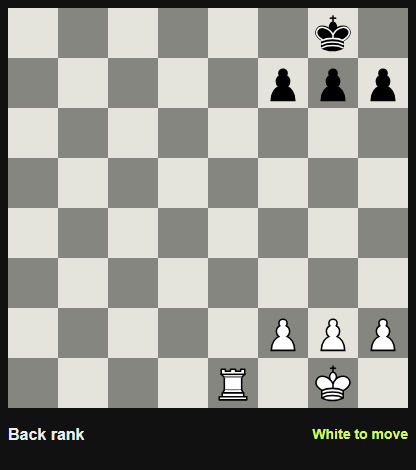
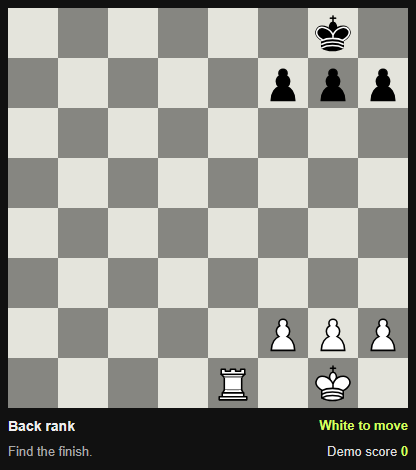
Show solve points and sample rankings in the puzzle GIF

Changed region(s): [[0.75, 0.8936, 1.0, 0.983], [0.0, 0.8936, 0.2188, 0.983]]

diff --git a/docs/index.html b/docs/index.html
@@ -101,7 +101,7 @@ dialog{background:#191919;border-radius:2px;border-color:#666;padding:28px;max-h
 .nav-mobile-label{display:none}
 @media(max-width:640px){.nav-desktop-label{display:none}.nav-mobile-label{display:inline}}
  .feed-swipe-hint{display:none}@media(max-width:760px){.feed-swipe-hint{display:block;margin:0 0 14px;color:var(--muted);font-size:13px}.club-grid{display:flex;gap:14px;overflow-x:auto;scroll-snap-type:x mandatory;overscroll-behavior-x:contain;padding-bottom:14px;scrollbar-width:thin;scrollbar-color:#d5ff5f #303030}.club-grid>.club-card{flex:0 0 88%;min-width:0;scroll-snap-align:start}.club-grid>.feed-empty{flex:1;min-width:100%}.club-grid:focus-visible{outline:2px solid #d5ff5f;outline-offset:4px}} .android-app-banner{background:#1b1b1b;border:1px solid #d5ff5f;margin:20px auto;padding:22px;max-width:1124px}.android-app-banner strong{font-size:24px}.android-app-banner p{margin:8px 0 14px}.android-app-banner[hidden],.android-app-banner button[hidden]{display:none}@media(max-width:760px){.android-app-banner{margin:20px}.android-app-banner .actions{gap:10px}.android-app-banner .actions button{font-size:13px;padding:11px 12px}} .event-photo-card{min-width:0}.event-photo-card h3{margin:0 0 16px;font-size:21px}.event-photo-card:not(:first-child){display:none}.memories-swipe-hint{display:none}.event-photo-track:focus-visible{outline:2px solid #d5ff5f;outline-offset:4px}@media(max-width:760px){.memories-swipe-hint{display:block;font-size:13px;margin:0 0 12px}.event-photo-track{display:flex;gap:16px;overflow-x:auto;scroll-snap-type:x mandatory;overscroll-behavior-x:contain;scrollbar-width:thin;scrollbar-color:#d5ff5f #303030;padding-bottom:12px}.event-photo-card,.event-photo-card:not(:first-child){display:block;flex:0 0 100%;scroll-snap-align:start}.event-photo-card .gallery-grid{grid-template-columns:repeat(2,minmax(0,1fr))}.event-photo-card figure:nth-child(n+5){display:none}.event-photo-card figcaption{display:-webkit-box;-webkit-line-clamp:2;-webkit-box-orient:vertical;overflow:hidden}.event-photo-card .gallery-grid img{height:140px}} .puzzle-picker{max-width:1040px;margin:auto}.puzzle-picker>p{max-width:620px}.puzzle-nickname{max-width:440px;margin:28px 0}.puzzle-nickname input{margin-bottom:8px}.puzzle-set-grid{display:grid;grid-template-columns:repeat(2,minmax(0,1fr));gap:24px;margin:32px 0}.puzzle-set-card{display:flex;flex-direction:column;align-items:flex-start;background:#1b1b1b;border:1px solid #444;padding:32px;min-width:0}.puzzle-set-card:hover,.puzzle-set-card:focus-within{border-color:#d5ff5f}.puzzle-set-card h2{font:800 36px/1.1 Arial,sans-serif;margin:14px 0}.puzzle-set-card p{margin:0 0 28px;max-width:360px;flex:1}.puzzle-set-icon{font-size:48px;line-height:1;color:#d5ff5f;margin-bottom:24px}.puzzle-set-card .primary{min-height:48px;min-width:140px;display:flex;justify-content:space-between;gap:24px}@media(max-width:760px){.puzzle-set-grid{grid-template-columns:1fr;gap:18px;margin:24px 0}.puzzle-set-card{padding:26px}.puzzle-set-card .primary{width:100%}.puzzle-picker h1{font-size:40px}.puzzle-set-icon{font-size:40px;margin-bottom:18px}} @media(max-width:760px){.feed-filters{min-width:0;max-width:100%;overflow:visible}.feed-filters button{min-width:0;max-width:100%;white-space:normal;overflow-wrap:anywhere;line-height:1.25;padding:10px 6px;min-height:48px}.club-card .card-copy{min-width:0}.club-card h3,.club-card .title-button,.club-card .card-meta,.club-card .card-excerpt{max-width:100%;overflow-wrap:anywhere}.club-card .card-top{gap:8px}.club-card .tag{min-width:0;white-space:normal}.club-card .date-tile{flex-shrink:0}.club-card .actions>*{max-width:100%;white-space:normal;overflow-wrap:anywhere}} .puzzle-set-card .secondary{width:100%;margin-top:12px;min-height:48px}.puzzle-set-card .text-button{font-size:14px;text-align:left}.puzzle-set-card .primary{width:100%} .founder-about .about-hero{align-items:center;grid-template-columns:1.1fr minmax(0,440px);gap:64px}.founder-thumbnail{display:block;border:1px solid #555;text-decoration:none;overflow:hidden;background:#222}.founder-thumbnail img{display:block;width:100%;height:auto}.founder-watch{display:flex;justify-content:space-between;align-items:center;gap:14px;background:#d5ff5f;color:#111;padding:18px 22px;font-weight:800}.founder-thumbnail:focus-visible{outline:3px solid #d5ff5f;outline-offset:5px}.founder-about .about-hero>div>.eyebrow:not(:first-child){margin-top:32px}.founder-about .about-hero h2{font-size:28px;margin-top:12px}.founder-about>.story-card{max-width:760px}@media(max-width:760px){.founder-about .about-hero{grid-template-columns:1fr;gap:28px}.founder-thumbnail{width:100%;max-width:440px;margin:auto}.founder-watch{padding:16px;font-size:15px}} .puzzle-intro{display:grid;grid-template-columns:minmax(0,1fr) 330px;gap:60px;align-items:center}.puzzle-intro-copy p{max-width:540px}.puzzle-demo{margin:0;width:100%;border:1px solid #444;padding:12px;background:#111}.puzzle-demo img{display:block;width:100%;height:auto}.puzzle-demo figcaption{display:flex;flex-wrap:wrap;gap:8px;align-items:center;justify-content:space-between;font-size:12px;color:var(--muted);padding-top:8px}.puzzle-demo .text-button{font-size:12px;padding:4px 0}.puzzle-intro .puzzle-intro-copy h1{font-size:clamp(40px,4.8vw,64px)}@media(max-width:900px){.puzzle-intro{display:block}.puzzle-demo{display:none}}
-@media(min-width:901px){.puzzle-picker{max-width:1080px}.puzzle-intro{grid-template-columns:minmax(0,1fr) clamp(340px,32vw,400px);gap:48px;align-items:center;padding:4px 0 30px;border-bottom:1px solid var(--line)}.puzzle-intro .puzzle-intro-copy h1{font-size:clamp(42px,4vw,56px);line-height:1.06;margin:14px 0 18px;letter-spacing:-1.8px}.puzzle-intro-copy>p{font-size:16px;line-height:1.6;margin:0;max-width:510px}.puzzle-intro .puzzle-nickname{max-width:460px;margin:26px 0 0}.puzzle-nickname label{font-size:14px;font-weight:650}.puzzle-nickname input{margin:8px 0 7px;padding:12px 14px}.puzzle-nickname small{display:block;font-size:12px;line-height:1.5;max-width:440px}.puzzle-demo{padding:0;border:0;background:transparent;align-self:center}.puzzle-demo img{border:1px solid #444;aspect-ratio:416/445;object-fit:cover;object-position:top}.puzzle-demo figcaption{padding-top:10px;gap:6px}.puzzle-demo figcaption>span{font-size:11px}.puzzle-demo .text-button{font-size:11px}.puzzle-set-grid{margin:26px 0 0;gap:24px}.puzzle-set-card{padding:26px}.puzzle-set-icon{font-size:38px;margin-bottom:14px}.puzzle-set-card h2{font-size:30px;line-height:1.15;margin:10px 0 12px}.puzzle-set-card p{font-size:15px;line-height:1.5;min-height:45px;margin-bottom:22px}.puzzle-set-card .primary{padding:12px 18px;margin-top:auto}}
+@media(min-width:901px){.puzzle-picker{max-width:1080px}.puzzle-intro{grid-template-columns:minmax(0,1fr) clamp(340px,32vw,400px);gap:48px;align-items:center;padding:4px 0 30px;border-bottom:1px solid var(--line)}.puzzle-intro .puzzle-intro-copy h1{font-size:clamp(42px,4vw,56px);line-height:1.06;margin:14px 0 18px;letter-spacing:-1.8px}.puzzle-intro-copy>p{font-size:16px;line-height:1.6;margin:0;max-width:510px}.puzzle-intro .puzzle-nickname{max-width:460px;margin:26px 0 0}.puzzle-nickname label{font-size:14px;font-weight:650}.puzzle-nickname input{margin:8px 0 7px;padding:12px 14px}.puzzle-nickname small{display:block;font-size:12px;line-height:1.5;max-width:440px}.puzzle-demo{padding:0;border:0;background:transparent;align-self:center}.puzzle-demo img{border:1px solid #444;aspect-ratio:416/470;object-fit:cover;object-position:top}.puzzle-demo figcaption{padding-top:10px;gap:6px}.puzzle-demo figcaption>span{font-size:11px}.puzzle-demo .text-button{font-size:11px}.puzzle-set-grid{margin:26px 0 0;gap:24px}.puzzle-set-card{padding:26px}.puzzle-set-icon{font-size:38px;margin-bottom:14px}.puzzle-set-card h2{font-size:30px;line-height:1.15;margin:10px 0 12px}.puzzle-set-card p{font-size:15px;line-height:1.5;min-height:45px;margin-bottom:22px}.puzzle-set-card .primary{padding:12px 18px;margin-top:auto}}
 </style></head><body><a class="skip-link" href="#app">Skip to content</a><header><div class="brand"><img src="./chessynight-logo.png" alt="CHESSYNIGHT logo"><div>CHESSYNIGHT<small>CHESS. PEOPLE. GOOD NIGHTS.</small></div></div><nav aria-label="Main navigation"><button id="updatesNav" class="active" aria-current="page">Events</button><button id="tournamentsNav"><span class="nav-desktop-label">Tournaments</span><span class="nav-mobile-label">Tourney</span></button><button id="lessonsNav">Lessons</button><button id="playNav">Play</button><button id="rankNav">Rankings</button><button id="aboutNav">About</button><button id="contactNav">Contact</button><a id="adminLink" class="hidden" href="https://chessy-night.kishelraj.chatgpt.site/admin">Admin</a></nav></header><main id="app" tabindex="-1"></main><footer>CHESSYNIGHT · Meet across the board. PJ & KL.<span><a href="https://chessy-night.kishelraj.chatgpt.site/admin">Admin</a> · </span><small class="piece-credit">Pieces by <a href="https://commons.wikimedia.org/wiki/Category:SVG_chess_pieces" target="_blank" rel="noopener noreferrer">Cburnett</a> · <a href="https://creativecommons.org/licenses/by-sa/3.0/" target="_blank" rel="noopener noreferrer">CC BY-SA 3.0</a></small></footer><script type="module">
 import {Chess} from './chess.js';
 function assetURL(value){return value?.startsWith('/')?"https://chessy-night.kishelraj.chatgpt.site"+value:value}
@@ -113,7 +113,7 @@ let content=null,challenge='classic',playerColor='w',busy=false,challengeTitle='
 async function refresh(){content=await api('content');challenge=content.set.id;document.querySelector('#adminLink').classList.toggle('hidden',!content.admin)}
 async function home(){activeNav('playNav');clearInterval(eventTimer);clearInterval(timer);app.className='';app.innerHTML='<p role="status">Loading challenge…</p>';try{await refresh();drawHome()}catch(e){app.innerHTML='<p class="error">'+esc(e.message)+'</p><button class="primary" id="reload">Retry</button>';document.querySelector('#reload').onclick=home}}
 function options(chosen){return content.sets.map(s=>'<option value="'+esc(s.id)+'" '+(s.id===chosen?'selected':'')+'>'+esc(s.title)+(s.date?' · '+esc(s.date):'')+'</option>').join('')}
-function drawHome(){practiceMode=false;selected=null;lastMove=[];const priority=s=>s.id==='classic'?0:s.id==='woodpecker-puzzles'?1:2;const sets=[...content.sets].sort((a,b)=>priority(a)-priority(b));app.innerHTML='<section class="puzzle-picker"><form id="start"><div class="puzzle-intro"><div class="puzzle-intro-copy"><div class="eyebrow">The club challenge</div><h1>Make your<br>next move count.</h1><p>Choose your challenge. Find the best moves and play for a place on the CHESSYNIGHT board.</p><div class="puzzle-nickname"><label for="nickname">Choose your nickname</label><input id="nickname" maxlength="24" minlength="2" required placeholder="What should we call you?" autocomplete="nickname" value="'+esc(nick)+'"><small>For timed challenges, your nickname appears on the leaderboard. Practice can start without one.</small></div></div><figure class="puzzle-demo"><img id="puzzleDemoImage" src="https://chessy-night.kishelraj.chatgpt.site/posters/puzzle-patterns.gif?v=2" alt="Five chess puzzles showing back-rank mate, smothered mate, queen net, a capture and mate, and a black-to-move solution"><figcaption><span>Spot the pattern. Find the finish.</span><button type="button" class="text-button" id="puzzleDemoToggle" aria-pressed="false">Pause animation</button></figcaption></figure></div><div class="puzzle-set-grid">'+sets.map(s=>{const classic=s.id==='classic',advanced=s.id==='woodpecker-puzzles';const title=s.title;return '<article class="puzzle-set-card"><span class="puzzle-set-icon" aria-hidden="true">'+(advanced?'♞':'♟')+'</span><div class="eyebrow">'+(classic?'Start here':advanced?'Step it up':'Club collection')+'</div><h2>'+esc(title)+'</h2><p>'+(classic?'Short tactical puzzles to sharpen your next move.':advanced?'A tougher collection for deeper calculation and focused practice.':'Explore this puzzle collection from CHESSYNIGHT.')+'</p><button class="primary" type="submit" name="puzzleSet" value="'+esc(s.id)+'" data-puzzle-set="'+esc(s.id)+'" aria-label="Play '+esc(title)+'">Play <span aria-hidden="true">&rarr;</span></button>'+practiceButtons(s)+'</article>'}).join('')+'</div><p id="error" class="error" role="alert"></p></form></section>';bindPractice();const demo=document.querySelector('#puzzleDemoImage'),toggle=document.querySelector('#puzzleDemoToggle');let paused=matchMedia('(prefers-reduced-motion: reduce)').matches;function updateDemo(){demo.src='https://chessy-night.kishelraj.chatgpt.site/posters/puzzle-patterns.'+(paused?'png':'gif')+'?v=2';toggle.textContent=paused?'Play animation':'Pause animation';toggle.setAttribute('aria-pressed',String(paused))}updateDemo();toggle.onclick=()=>{paused=!paused;updateDemo()};document.querySelector('#start').onsubmit=async e=>{e.preventDefault();nick=document.querySelector('#nickname').value.trim();challenge=e.submitter.value;const buttons=[...document.querySelectorAll('.puzzle-set-card button')];buttons.forEach(b=>b.disabled=true);try{const d=await api('start',{nickname:nick,challenge});id=d.id;puzzles=d.puzzles;challengeTitle=d.title;index=0;answers=[];solved=[];started=Date.now();finished=false;load();timer=setInterval(()=>{let el=document.querySelector('#clock');if(el)el.textContent=time(Date.now()-started)},1000)}catch(e){document.querySelector('#error').textContent=e.message;buttons.forEach(b=>b.disabled=false)}}}
+function drawHome(){practiceMode=false;selected=null;lastMove=[];const priority=s=>s.id==='classic'?0:s.id==='woodpecker-puzzles'?1:2;const sets=[...content.sets].sort((a,b)=>priority(a)-priority(b));app.innerHTML='<section class="puzzle-picker"><form id="start"><div class="puzzle-intro"><div class="puzzle-intro-copy"><div class="eyebrow">The club challenge</div><h1>Make your<br>next move count.</h1><p>Choose your challenge. Find the best moves and play for a place on the CHESSYNIGHT board.</p><div class="puzzle-nickname"><label for="nickname">Choose your nickname</label><input id="nickname" maxlength="24" minlength="2" required placeholder="What should we call you?" autocomplete="nickname" value="'+esc(nick)+'"><small>For timed challenges, your nickname appears on the leaderboard. Practice can start without one.</small></div></div><figure class="puzzle-demo"><img id="puzzleDemoImage" src="https://chessy-night.kishelraj.chatgpt.site/posters/puzzle-patterns.gif?v=3" alt="Five solved chess puzzles awarding 100 demo points each, followed by a sample ranking board"><figcaption><span>Solve. Score. Climb the board.</span><button type="button" class="text-button" id="puzzleDemoToggle" aria-pressed="false">Pause animation</button></figcaption></figure></div><div class="puzzle-set-grid">'+sets.map(s=>{const classic=s.id==='classic',advanced=s.id==='woodpecker-puzzles';const title=s.title;return '<article class="puzzle-set-card"><span class="puzzle-set-icon" aria-hidden="true">'+(advanced?'♞':'♟')+'</span><div class="eyebrow">'+(classic?'Start here':advanced?'Step it up':'Club collection')+'</div><h2>'+esc(title)+'</h2><p>'+(classic?'Short tactical puzzles to sharpen your next move.':advanced?'A tougher collection for deeper calculation and focused practice.':'Explore this puzzle collection from CHESSYNIGHT.')+'</p><button class="primary" type="submit" name="puzzleSet" value="'+esc(s.id)+'" data-puzzle-set="'+esc(s.id)+'" aria-label="Play '+esc(title)+'">Play <span aria-hidden="true">&rarr;</span></button>'+practiceButtons(s)+'</article>'}).join('')+'</div><p id="error" class="error" role="alert"></p></form></section>';bindPractice();const demo=document.querySelector('#puzzleDemoImage'),toggle=document.querySelector('#puzzleDemoToggle');let paused=matchMedia('(prefers-reduced-motion: reduce)').matches;function updateDemo(){demo.src='https://chessy-night.kishelraj.chatgpt.site/posters/puzzle-patterns.'+(paused?'png':'gif')+'?v=3';toggle.textContent=paused?'Play animation':'Pause animation';toggle.setAttribute('aria-pressed',String(paused))}updateDemo();toggle.onclick=()=>{paused=!paused;updateDemo()};document.querySelector('#start').onsubmit=async e=>{e.preventDefault();nick=document.querySelector('#nickname').value.trim();challenge=e.submitter.value;const buttons=[...document.querySelectorAll('.puzzle-set-card button')];buttons.forEach(b=>b.disabled=true);try{const d=await api('start',{nickname:nick,challenge});id=d.id;puzzles=d.puzzles;challengeTitle=d.title;index=0;answers=[];solved=[];started=Date.now();finished=false;load();timer=setInterval(()=>{let el=document.querySelector('#clock');if(el)el.textContent=time(Date.now()-started)},1000)}catch(e){document.querySelector('#error').textContent=e.message;buttons.forEach(b=>b.disabled=false)}}}
 function time(ms){let s=Math.floor(ms/1000);return Math.floor(s/60)+':'+String(s%60).padStart(2,'0')}
 function load(){game=new Chess(puzzles[index].fen);playerColor=game.turn();selected=null;lastMove=[];locked=false;render()}
 function render(){if(practiceMode){renderPractice();return}app.className='game';app.innerHTML='<div class="layout"><div id="board">'+board(game,true)+'</div><div class="panel"><div class="eyebrow">'+esc(challengeTitle)+' · '+esc(nick)+' · '+'Puzzle '+(index+1)+'</div><h1>'+(playerColor==='w'?'White':'Black')+' to move.</h1><p>'+esc(puzzles[index].title||'Find the best move')+'</p><div class="progress"><div style="width:'+index/puzzles.length*100+'%"></div></div><div class="stats"><div><small>Score</small><b id="score">'+solved.filter(Boolean).length*100+'</b></div><div><small>Time</small><b id="clock">'+time(Date.now()-started)+'</b></div></div><p class="status" id="status" role="status">Select a piece, then its destination.</p><div class="actions"><button class="secondary" id="skip">Skip puzzle</button><button class="primary hidden" id="next">'+(index===puzzles.length-1?'See results':'Next puzzle')+'</button></div><p><small>The opponent replies automatically. Faster time breaks a tie.</small></p></div></div>';bind();document.querySelector('#skip').onclick=()=>submitMove(null,true);document.querySelector('#next').onclick=next}

diff --git a/worker/page.html b/worker/page.html
@@ -84,7 +84,7 @@ dialog{background:#191919;border-radius:2px;border-color:#666;padding:28px;max-h
 .nav-mobile-label{display:none}
 @media(max-width:640px){.nav-desktop-label{display:none}.nav-mobile-label{display:inline}}
  .feed-swipe-hint{display:none}@media(max-width:760px){.feed-swipe-hint{display:block;margin:0 0 14px;color:var(--muted);font-size:13px}.club-grid{display:flex;gap:14px;overflow-x:auto;scroll-snap-type:x mandatory;overscroll-behavior-x:contain;padding-bottom:14px;scrollbar-width:thin;scrollbar-color:#d5ff5f #303030}.club-grid>.club-card{flex:0 0 88%;min-width:0;scroll-snap-align:start}.club-grid>.feed-empty{flex:1;min-width:100%}.club-grid:focus-visible{outline:2px solid #d5ff5f;outline-offset:4px}} .android-app-banner{background:#1b1b1b;border:1px solid #d5ff5f;margin:20px auto;padding:22px;max-width:1124px}.android-app-banner strong{font-size:24px}.android-app-banner p{margin:8px 0 14px}.android-app-banner[hidden],.android-app-banner button[hidden]{display:none}@media(max-width:760px){.android-app-banner{margin:20px}.android-app-banner .actions{gap:10px}.android-app-banner .actions button{font-size:13px;padding:11px 12px}} .event-photo-card{min-width:0}.event-photo-card h3{margin:0 0 16px;font-size:21px}.event-photo-card:not(:first-child){display:none}.memories-swipe-hint{display:none}.event-photo-track:focus-visible{outline:2px solid #d5ff5f;outline-offset:4px}@media(max-width:760px){.memories-swipe-hint{display:block;font-size:13px;margin:0 0 12px}.event-photo-track{display:flex;gap:16px;overflow-x:auto;scroll-snap-type:x mandatory;overscroll-behavior-x:contain;scrollbar-width:thin;scrollbar-color:#d5ff5f #303030;padding-bottom:12px}.event-photo-card,.event-photo-card:not(:first-child){display:block;flex:0 0 100%;scroll-snap-align:start}.event-photo-card .gallery-grid{grid-template-columns:repeat(2,minmax(0,1fr))}.event-photo-card figure:nth-child(n+5){display:none}.event-photo-card figcaption{display:-webkit-box;-webkit-line-clamp:2;-webkit-box-orient:vertical;overflow:hidden}.event-photo-card .gallery-grid img{height:140px}} .puzzle-picker{max-width:1040px;margin:auto}.puzzle-picker>p{max-width:620px}.puzzle-nickname{max-width:440px;margin:28px 0}.puzzle-nickname input{margin-bottom:8px}.puzzle-set-grid{display:grid;grid-template-columns:repeat(2,minmax(0,1fr));gap:24px;margin:32px 0}.puzzle-set-card{display:flex;flex-direction:column;align-items:flex-start;background:#1b1b1b;border:1px solid #444;padding:32px;min-width:0}.puzzle-set-card:hover,.puzzle-set-card:focus-within{border-color:#d5ff5f}.puzzle-set-card h2{font:800 36px/1.1 Arial,sans-serif;margin:14px 0}.puzzle-set-card p{margin:0 0 28px;max-width:360px;flex:1}.puzzle-set-icon{font-size:48px;line-height:1;color:#d5ff5f;margin-bottom:24px}.puzzle-set-card .primary{min-height:48px;min-width:140px;display:flex;justify-content:space-between;gap:24px}@media(max-width:760px){.puzzle-set-grid{grid-template-columns:1fr;gap:18px;margin:24px 0}.puzzle-set-card{padding:26px}.puzzle-set-card .primary{width:100%}.puzzle-picker h1{font-size:40px}.puzzle-set-icon{font-size:40px;margin-bottom:18px}} @media(max-width:760px){.feed-filters{min-width:0;max-width:100%;overflow:visible}.feed-filters button{min-width:0;max-width:100%;white-space:normal;overflow-wrap:anywhere;line-height:1.25;padding:10px 6px;min-height:48px}.club-card .card-copy{min-width:0}.club-card h3,.club-card .title-button,.club-card .card-meta,.club-card .card-excerpt{max-width:100%;overflow-wrap:anywhere}.club-card .card-top{gap:8px}.club-card .tag{min-width:0;white-space:normal}.club-card .date-tile{flex-shrink:0}.club-card .actions>*{max-width:100%;white-space:normal;overflow-wrap:anywhere}} .puzzle-set-card .secondary{width:100%;margin-top:12px;min-height:48px}.puzzle-set-card .text-button{font-size:14px;text-align:left}.puzzle-set-card .primary{width:100%} .founder-about .about-hero{align-items:center;grid-template-columns:1.1fr minmax(0,440px);gap:64px}.founder-thumbnail{display:block;border:1px solid #555;text-decoration:none;overflow:hidden;background:#222}.founder-thumbnail img{display:block;width:100%;height:auto}.founder-watch{display:flex;justify-content:space-between;align-items:center;gap:14px;background:#d5ff5f;color:#111;padding:18px 22px;font-weight:800}.founder-thumbnail:focus-visible{outline:3px solid #d5ff5f;outline-offset:5px}.founder-about .about-hero>div>.eyebrow:not(:first-child){margin-top:32px}.founder-about .about-hero h2{font-size:28px;margin-top:12px}.founder-about>.story-card{max-width:760px}@media(max-width:760px){.founder-about .about-hero{grid-template-columns:1fr;gap:28px}.founder-thumbnail{width:100%;max-width:440px;margin:auto}.founder-watch{padding:16px;font-size:15px}} .puzzle-intro{display:grid;grid-template-columns:minmax(0,1fr) 330px;gap:60px;align-items:center}.puzzle-intro-copy p{max-width:540px}.puzzle-demo{margin:0;width:100%;border:1px solid #444;padding:12px;background:#111}.puzzle-demo img{display:block;width:100%;height:auto}.puzzle-demo figcaption{display:flex;flex-wrap:wrap;gap:8px;align-items:center;justify-content:space-between;font-size:12px;color:var(--muted);padding-top:8px}.puzzle-demo .text-button{font-size:12px;padding:4px 0}.puzzle-intro .puzzle-intro-copy h1{font-size:clamp(40px,4.8vw,64px)}@media(max-width:900px){.puzzle-intro{display:block}.puzzle-demo{display:none}}
-@media(min-width:901px){.puzzle-picker{max-width:1080px}.puzzle-intro{grid-template-columns:minmax(0,1fr) clamp(340px,32vw,400px);gap:48px;align-items:center;padding:4px 0 30px;border-bottom:1px solid var(--line)}.puzzle-intro .puzzle-intro-copy h1{font-size:clamp(42px,4vw,56px);line-height:1.06;margin:14px 0 18px;letter-spacing:-1.8px}.puzzle-intro-copy>p{font-size:16px;line-height:1.6;margin:0;max-width:510px}.puzzle-intro .puzzle-nickname{max-width:460px;margin:26px 0 0}.puzzle-nickname label{font-size:14px;font-weight:650}.puzzle-nickname input{margin:8px 0 7px;padding:12px 14px}.puzzle-nickname small{display:block;font-size:12px;line-height:1.5;max-width:440px}.puzzle-demo{padding:0;border:0;background:transparent;align-self:center}.puzzle-demo img{border:1px solid #444;aspect-ratio:416/445;object-fit:cover;object-position:top}.puzzle-demo figcaption{padding-top:10px;gap:6px}.puzzle-demo figcaption>span{font-size:11px}.puzzle-demo .text-button{font-size:11px}.puzzle-set-grid{margin:26px 0 0;gap:24px}.puzzle-set-card{padding:26px}.puzzle-set-icon{font-size:38px;margin-bottom:14px}.puzzle-set-card h2{font-size:30px;line-height:1.15;margin:10px 0 12px}.puzzle-set-card p{font-size:15px;line-height:1.5;min-height:45px;margin-bottom:22px}.puzzle-set-card .primary{padding:12px 18px;margin-top:auto}}
+@media(min-width:901px){.puzzle-picker{max-width:1080px}.puzzle-intro{grid-template-columns:minmax(0,1fr) clamp(340px,32vw,400px);gap:48px;align-items:center;padding:4px 0 30px;border-bottom:1px solid var(--line)}.puzzle-intro .puzzle-intro-copy h1{font-size:clamp(42px,4vw,56px);line-height:1.06;margin:14px 0 18px;letter-spacing:-1.8px}.puzzle-intro-copy>p{font-size:16px;line-height:1.6;margin:0;max-width:510px}.puzzle-intro .puzzle-nickname{max-width:460px;margin:26px 0 0}.puzzle-nickname label{font-size:14px;font-weight:650}.puzzle-nickname input{margin:8px 0 7px;padding:12px 14px}.puzzle-nickname small{display:block;font-size:12px;line-height:1.5;max-width:440px}.puzzle-demo{padding:0;border:0;background:transparent;align-self:center}.puzzle-demo img{border:1px solid #444;aspect-ratio:416/470;object-fit:cover;object-position:top}.puzzle-demo figcaption{padding-top:10px;gap:6px}.puzzle-demo figcaption>span{font-size:11px}.puzzle-demo .text-button{font-size:11px}.puzzle-set-grid{margin:26px 0 0;gap:24px}.puzzle-set-card{padding:26px}.puzzle-set-icon{font-size:38px;margin-bottom:14px}.puzzle-set-card h2{font-size:30px;line-height:1.15;margin:10px 0 12px}.puzzle-set-card p{font-size:15px;line-height:1.5;min-height:45px;margin-bottom:22px}.puzzle-set-card .primary{padding:12px 18px;margin-top:auto}}
 </style></head><body><a class="skip-link" href="#app">Skip to content</a><header><div class="brand"><img src="/chessynight-logo.png" alt="CHESSYNIGHT logo"><div>CHESSYNIGHT<small>CHESS. PEOPLE. GOOD NIGHTS.</small></div></div><nav aria-label="Main navigation"><button id="updatesNav" class="active" aria-current="page">Events</button><button id="tournamentsNav"><span class="nav-desktop-label">Tournaments</span><span class="nav-mobile-label">Tourney</span></button><button id="lessonsNav">Lessons</button><button id="playNav">Play</button><button id="rankNav">Rankings</button><button id="aboutNav">About</button><button id="contactNav">Contact</button><a id="adminLink" class="hidden" href="/admin">Admin</a></nav></header><main id="app" tabindex="-1"></main><footer>CHESSYNIGHT · Meet across the board. PJ & KL.<span><a href="/admin">Admin</a> · </span><small class="piece-credit">Pieces by <a href="https://commons.wikimedia.org/wiki/Category:SVG_chess_pieces" target="_blank" rel="noopener noreferrer">Cburnett</a> · <a href="https://creativecommons.org/licenses/by-sa/3.0/" target="_blank" rel="noopener noreferrer">CC BY-SA 3.0</a></small></footer><script type="module">
 import {Chess} from '/chess.js';
 const app=document.querySelector('#app');let puzzles=[],game,index=0,selected=null,answers=[],solved=[],id=null,nick='',started=0,timer=null,locked=false,finished=false,lastMove=[];
@@ -95,7 +95,7 @@ let content=null,challenge='classic',playerColor='w',busy=false,challengeTitle='
 async function refresh(){content=await api('content');challenge=content.set.id;document.querySelector('#adminLink').classList.toggle('hidden',!content.admin)}
 async function home(){activeNav('playNav');clearInterval(eventTimer);clearInterval(timer);app.className='';app.innerHTML='<p role="status">Loading challenge…</p>';try{await refresh();drawHome()}catch(e){app.innerHTML='<p class="error">'+esc(e.message)+'</p><button class="primary" id="reload">Retry</button>';document.querySelector('#reload').onclick=home}}
 function options(chosen){return content.sets.map(s=>'<option value="'+esc(s.id)+'" '+(s.id===chosen?'selected':'')+'>'+esc(s.title)+(s.date?' · '+esc(s.date):'')+'</option>').join('')}
-function drawHome(){practiceMode=false;selected=null;lastMove=[];const priority=s=>s.id==='classic'?0:s.id==='woodpecker-puzzles'?1:2;const sets=[...content.sets].sort((a,b)=>priority(a)-priority(b));app.innerHTML='<section class="puzzle-picker"><form id="start"><div class="puzzle-intro"><div class="puzzle-intro-copy"><div class="eyebrow">The club challenge</div><h1>Make your<br>next move count.</h1><p>Choose your challenge. Find the best moves and play for a place on the CHESSYNIGHT board.</p><div class="puzzle-nickname"><label for="nickname">Choose your nickname</label><input id="nickname" maxlength="24" minlength="2" required placeholder="What should we call you?" autocomplete="nickname" value="'+esc(nick)+'"><small>For timed challenges, your nickname appears on the leaderboard. Practice can start without one.</small></div></div><figure class="puzzle-demo"><img id="puzzleDemoImage" src="https://chessy-night.kishelraj.chatgpt.site/posters/puzzle-patterns.gif?v=2" alt="Five chess puzzles showing back-rank mate, smothered mate, queen net, a capture and mate, and a black-to-move solution"><figcaption><span>Spot the pattern. Find the finish.</span><button type="button" class="text-button" id="puzzleDemoToggle" aria-pressed="false">Pause animation</button></figcaption></figure></div><div class="puzzle-set-grid">'+sets.map(s=>{const classic=s.id==='classic',advanced=s.id==='woodpecker-puzzles';const title=s.title;return '<article class="puzzle-set-card"><span class="puzzle-set-icon" aria-hidden="true">'+(advanced?'♞':'♟')+'</span><div class="eyebrow">'+(classic?'Start here':advanced?'Step it up':'Club collection')+'</div><h2>'+esc(title)+'</h2><p>'+(classic?'Short tactical puzzles to sharpen your next move.':advanced?'A tougher collection for deeper calculation and focused practice.':'Explore this puzzle collection from CHESSYNIGHT.')+'</p><button class="primary" type="submit" name="puzzleSet" value="'+esc(s.id)+'" data-puzzle-set="'+esc(s.id)+'" aria-label="Play '+esc(title)+'">Play <span aria-hidden="true">&rarr;</span></button>'+practiceButtons(s)+'</article>'}).join('')+'</div><p id="error" class="error" role="alert"></p></form></section>';bindPractice();const demo=document.querySelector('#puzzleDemoImage'),toggle=document.querySelector('#puzzleDemoToggle');let paused=matchMedia('(prefers-reduced-motion: reduce)').matches;function updateDemo(){demo.src='https://chessy-night.kishelraj.chatgpt.site/posters/puzzle-patterns.'+(paused?'png':'gif')+'?v=2';toggle.textContent=paused?'Play animation':'Pause animation';toggle.setAttribute('aria-pressed',String(paused))}updateDemo();toggle.onclick=()=>{paused=!paused;updateDemo()};document.querySelector('#start').onsubmit=async e=>{e.preventDefault();nick=document.querySelector('#nickname').value.trim();challenge=e.submitter.value;const buttons=[...document.querySelectorAll('.puzzle-set-card button')];buttons.forEach(b=>b.disabled=true);try{const d=await api('start',{nickname:nick,challenge});id=d.id;puzzles=d.puzzles;challengeTitle=d.title;index=0;answers=[];solved=[];started=Date.now();finished=false;load();timer=setInterval(()=>{let el=document.querySelector('#clock');if(el)el.textContent=time(Date.now()-started)},1000)}catch(e){document.querySelector('#error').textContent=e.message;buttons.forEach(b=>b.disabled=false)}}}
+function drawHome(){practiceMode=false;selected=null;lastMove=[];const priority=s=>s.id==='classic'?0:s.id==='woodpecker-puzzles'?1:2;const sets=[...content.sets].sort((a,b)=>priority(a)-priority(b));app.innerHTML='<section class="puzzle-picker"><form id="start"><div class="puzzle-intro"><div class="puzzle-intro-copy"><div class="eyebrow">The club challenge</div><h1>Make your<br>next move count.</h1><p>Choose your challenge. Find the best moves and play for a place on the CHESSYNIGHT board.</p><div class="puzzle-nickname"><label for="nickname">Choose your nickname</label><input id="nickname" maxlength="24" minlength="2" required placeholder="What should we call you?" autocomplete="nickname" value="'+esc(nick)+'"><small>For timed challenges, your nickname appears on the leaderboard. Practice can start without one.</small></div></div><figure class="puzzle-demo"><img id="puzzleDemoImage" src="https://chessy-night.kishelraj.chatgpt.site/posters/puzzle-patterns.gif?v=3" alt="Five solved chess puzzles awarding 100 demo points each, followed by a sample ranking board"><figcaption><span>Solve. Score. Climb the board.</span><button type="button" class="text-button" id="puzzleDemoToggle" aria-pressed="false">Pause animation</button></figcaption></figure></div><div class="puzzle-set-grid">'+sets.map(s=>{const classic=s.id==='classic',advanced=s.id==='woodpecker-puzzles';const title=s.title;return '<article class="puzzle-set-card"><span class="puzzle-set-icon" aria-hidden="true">'+(advanced?'♞':'♟')+'</span><div class="eyebrow">'+(classic?'Start here':advanced?'Step it up':'Club collection')+'</div><h2>'+esc(title)+'</h2><p>'+(classic?'Short tactical puzzles to sharpen your next move.':advanced?'A tougher collection for deeper calculation and focused practice.':'Explore this puzzle collection from CHESSYNIGHT.')+'</p><button class="primary" type="submit" name="puzzleSet" value="'+esc(s.id)+'" data-puzzle-set="'+esc(s.id)+'" aria-label="Play '+esc(title)+'">Play <span aria-hidden="true">&rarr;</span></button>'+practiceButtons(s)+'</article>'}).join('')+'</div><p id="error" class="error" role="alert"></p></form></section>';bindPractice();const demo=document.querySelector('#puzzleDemoImage'),toggle=document.querySelector('#puzzleDemoToggle');let paused=matchMedia('(prefers-reduced-motion: reduce)').matches;function updateDemo(){demo.src='https://chessy-night.kishelraj.chatgpt.site/posters/puzzle-patterns.'+(paused?'png':'gif')+'?v=3';toggle.textContent=paused?'Play animation':'Pause animation';toggle.setAttribute('aria-pressed',String(paused))}updateDemo();toggle.onclick=()=>{paused=!paused;updateDemo()};document.querySelector('#start').onsubmit=async e=>{e.preventDefault();nick=document.querySelector('#nickname').value.trim();challenge=e.submitter.value;const buttons=[...document.querySelectorAll('.puzzle-set-card button')];buttons.forEach(b=>b.disabled=true);try{const d=await api('start',{nickname:nick,challenge});id=d.id;puzzles=d.puzzles;challengeTitle=d.title;index=0;answers=[];solved=[];started=Date.now();finished=false;load();timer=setInterval(()=>{let el=document.querySelector('#clock');if(el)el.textContent=time(Date.now()-started)},1000)}catch(e){document.querySelector('#error').textContent=e.message;buttons.forEach(b=>b.disabled=false)}}}
 function time(ms){let s=Math.floor(ms/1000);return Math.floor(s/60)+':'+String(s%60).padStart(2,'0')}
 function load(){game=new Chess(puzzles[index].fen);playerColor=game.turn();selected=null;lastMove=[];locked=false;render()}
 function render(){if(practiceMode){renderPractice();return}app.className='game';app.innerHTML='<div class="layout"><div id="board">'+board(game,true)+'</div><div class="panel"><div class="eyebrow">'+esc(challengeTitle)+' · '+esc(nick)+' · '+'Puzzle '+(index+1)+'</div><h1>'+(playerColor==='w'?'White':'Black')+' to move.</h1><p>'+esc(puzzles[index].title||'Find the best move')+'</p><div class="progress"><div style="width:'+index/puzzles.length*100+'%"></div></div><div class="stats"><div><small>Score</small><b id="score">'+solved.filter(Boolean).length*100+'</b></div><div><small>Time</small><b id="clock">'+time(Date.now()-started)+'</b></div></div><p class="status" id="status" role="status">Select a piece, then its destination.</p><div class="actions"><button class="secondary" id="skip">Skip puzzle</button><button class="primary hidden" id="next">'+(index===puzzles.length-1?'See results':'Next puzzle')+'</button></div><p><small>The opponent replies automatically. Faster time breaks a tie.</small></p></div></div>';bind();document.querySelector('#skip').onclick=()=>submitMove(null,true);document.querySelector('#next').onclick=next}
